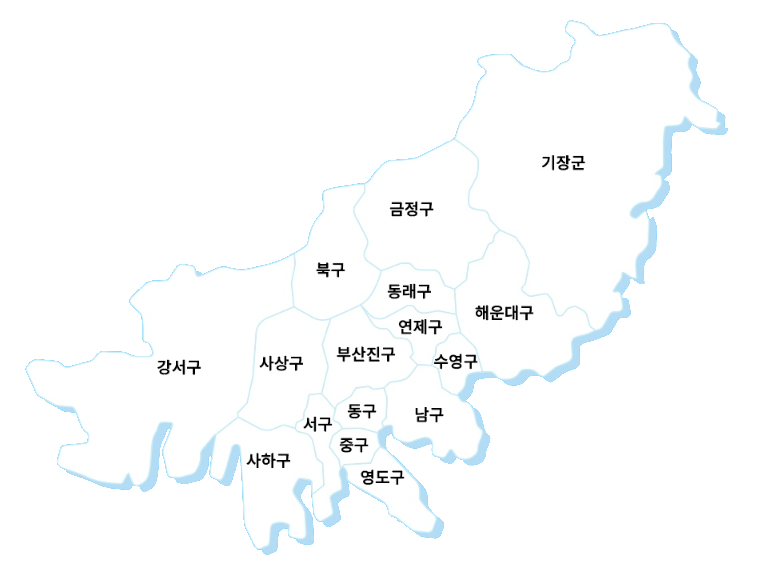
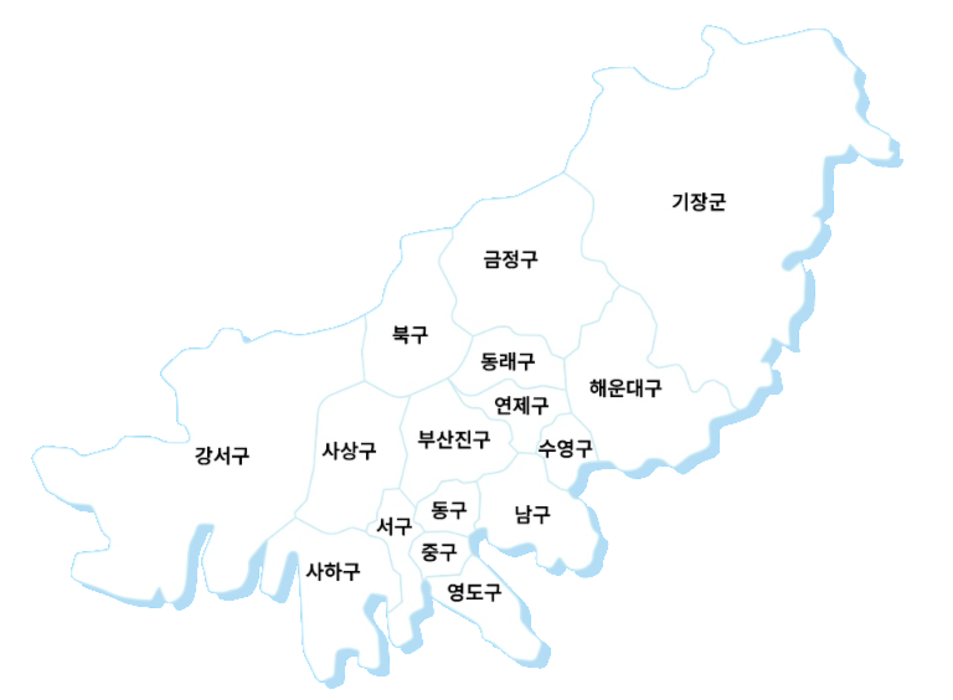
feat:20250411 home화면 및 디테일 화면 수정중

diff --git a/src/home/Home.jsx b/src/home/Home.jsx
@@ -18,6 +18,12 @@ export default function Home() {
 
             {/* body */}
             <div className="home-body">
+                <div className="buttons">
+                <button className="central-btn" onClick={() => PageMove(navigate, "central")}>중부권</button>
+                <button className="eastern-btn" onClick={() => PageMove(navigate, "eastern")}>동부권</button>
+                <button className="southern-btn" onClick={() => PageMove(navigate, "southern")}>남부권</button>
+                <button className="western-btn" onClick={() => PageMove(navigate, "western")}>서부권</button>
+                </div>
                 {/* 지도 이미지 */}
                 <img className="busan-map" src="src\img\busan.png" useMap="#img-busan"/>
                 {/* 지역별 버튼 */}
@@ -27,25 +33,25 @@ export default function Home() {
                             onClick={() => PageMove(navigate, "central")}
                             alt="중부" 
                             title="central-map" 
-                            coords="330,319,362,304,385,271,364,255,369,240,355,209,365,193,366,185,388,162,412,159,455,138,481,159,471,191,468,205,486,214,496,228,482,258,467,275,458,288,457,313,462,333,439,347,433,363,405,370,384,386,352,385,341,402,327,391,323,345" shape="poly"/>
+                            coords="451,229,481,201,566,174,593,195,576,246,585,261,603,265,618,285,592,321,578,323,577,340,564,360,569,414,561,418,541,422,536,441,535,452,516,452,503,469,480,476,459,482,443,479,418,504,401,484,412,460,400,428,411,398,450,380,475,334,456,322,459,303,438,263" shape="poly"/>
 
                         <area 
                             onClick={() => PageMove(navigate, "eastern")}
                             alt="동부" 
                             title="eastern-map" 
-                            coords="453,139,478,158,468,199,486,211,497,228,457,289,458,318,468,336,485,365,507,380,552,376,598,332,628,312,644,276,647,212,665,183,669,128,727,127,692,61,669,24,570,21,476,60" shape="poly"/>
+                            coords="600,460,593,434,572,412,565,359,579,347,581,324,598,321,612,301,619,285,603,264,583,255,588,226,593,198,562,170,585,130,602,91,593,72,632,68,676,89,706,74,713,48,701,34,705,27,725,28,737,42,826,28,850,60,858,71,860,92,858,114,890,134,893,155,855,150,828,157,825,206,821,248,793,347,773,382,742,413,707,449,674,468,631,471"  shape="poly"/>
         
                         <area 
                             onClick={() => PageMove(navigate, "western")}
                             alt="서부" 
                             title="western-map" 
-                            coords="365,183,354,209,369,241,364,256,382,271,362,304,331,318,325,346,328,367,322,391,310,396,295,426,304,476,299,538,254,544,224,479,172,477,143,487,56,462,71,408,29,368,132,299,180,265" shape="poly"/>
+                            coords="446,229,400,236,400,258,380,300,300,333,276,329,244,339,238,330,219,326,205,345,186,349,161,371,171,389,174,419,185,441,127,431,80,450,33,446,33,468,45,490,80,508,99,541,56,559,86,585,154,604,182,598,233,586,270,596,318,674,355,671,382,668,385,611,402,597,366,533,383,490,399,486,401,453,393,429,406,395,446,376,472,341,449,325,455,303,432,264,448,240" shape="poly"/>
 
                         <area 
                             onClick={() => PageMove(navigate, "southern")}
                             alt="남부" 
                             title="southern-map" 
-                            coords="310,396,298,426,311,437,324,463,324,486,317,509,328,515,359,488,405,525,429,529,438,517,422,485,379,435,392,428,406,443,430,437,441,458,453,449,469,461,485,433,470,408,457,397,482,370,460,334,401,386,359,392,337,406" shape="poly"/>    
+                            coords="567,411,592,434,600,459,569,491,587,512,599,539,581,568,543,568,501,546,476,533,476,564,504,580,526,620,543,644,536,666,501,646,481,639,460,616,427,594,415,635,397,645,387,613,402,602,399,573,386,543,369,532,376,519,385,491,401,487,416,510,436,490,454,481,477,482,505,470,519,455,539,456,543,431"  shape="poly"/>    
                         </map>    
             </div>
             {/* footer */}

diff --git a/src/detail/central/Central.jsx b/src/detail/central/Central.jsx
@@ -12,7 +12,8 @@ export default function Central() {
     return (
         <div className="central-cafe">
             <Header />
-            <div className="central-top">
+            
+            
                 <div className="central-part1">
                     <a href="https://naver.me/5Q3mYIGJ" target="_blank" rel="noopener noreferrer">
                         <img src={centralCafeImg1} alt="카페 이내 무목 이미지"  />
@@ -28,7 +29,7 @@ export default function Central() {
                     <a href="https://naver.me/xJiRmdcK" target="_blank" rel="noopener noreferrer">
                         <img src={centralCafeImg2} alt="카페 뱅커 이미지" />
                     </a>
-                    <div>
+                    <div className="part-2-detail">
                         <p>뱅커</p>
                         <p>쿠키와 빵 종류가 다양하고, 넓음</p>
                         <p>#크로플</p>
@@ -36,14 +37,13 @@ export default function Central() {
                     
                 </div>
 
-            </div>
             
-            <div className="central-bottom">
+            
             <div className="central-part3">
                 <a href="https://naver.me/xeAOhY3e" target="_blank" rel="noopener noreferrer">
                     <img src={centralCafeImg3} alt="카페 이디야커피 이미지" />
                 </a>
-                <div>
+                <div className="part-3-detail">
                 <p>이디야커피 부산지오플레이스점</p>
                 <p>사장님이 친절하고, 분위기가 조용함</p>
                 <p>#공부하기 좋은 카페</p>
@@ -54,15 +54,14 @@ export default function Central() {
                 <a href="https://naver.me/Gcts7ekh" target="_blank" rel="noopener noreferrer">
                     <img src={centralCafeImg4} alt="카페 오프커스 이미지" />
                 </a>
-                <div>
+                <div className="part-4-detail">
                 <p>오프커스</p>
                 <p>서면에서 보기 드문 대형 카페</p>
                 <p>#커피가 맛있음 #서면 대형 카페</p>
                 </div>
                 
             </div>
-            </div>
-
+        
             
 
             <Footer />

diff --git a/src/detail/central/Central.css b/src/detail/central/Central.css
@@ -1,4 +1,13 @@
 /* 각 카페 별 이미지 */
+@font-face {
+  font-family: 'Cafe24Ssurround';
+  src: url('https://fastly.jsdelivr.net/gh/projectnoonnu/noonfonts_2105_2@1.0/Cafe24Ssurround.woff') format('woff');
+  font-weight: normal;
+  font-style: normal;
+}
+
+
+
 .central-cafe img{
   width: 330px;
   height: 330px;
@@ -9,31 +18,11 @@
   flex-direction: column;
 }
 
-.central-top{
-  margin-left: 250px;
-  margin-top: 50px;
-  display: flex;
-  gap: 80px;
-}
-
-.central-bottom{
-  margin-left: 250px;
-  margin-top: 30px;
-  display: flex;
-  gap: 120px;
-}
 
 .central-part1{
   display: flex;
   gap: 30px;
 }
-
-.central-part1 :hover{
-}
-
-/* .part-1-detail{
-  display: none;
-} */
 
 .central-part2{
   display: flex;
@@ -48,4 +37,21 @@
 .central-part4{
   display: flex;
   gap: 30px;
+}
+
+.part-1-detail{
+  font-family: 'Cafe24Ssurround';
+  font-size: 24px;
+}
+.part-2-detail{
+  font-family: 'Cafe24Ssurround';
+  font-size: 24px;
+}
+.part-3-detail{
+  font-family: 'Cafe24Ssurround';
+  font-size: 24px;
+}
+.part-4-detail{
+  font-family: 'Cafe24Ssurround';
+  font-size: 24px;
 }

diff --git a/src/detail/eastern/Eastern.css b/src/detail/eastern/Eastern.css
@@ -1,3 +1,11 @@
+@font-face {
+  font-family: 'Cafe24Ssurround';
+  src: url('https://fastly.jsdelivr.net/gh/projectnoonnu/noonfonts_2105_2@1.0/Cafe24Ssurround.woff') format('woff');
+  font-weight: normal;
+  font-style: normal;
+}
+
+
 .eastern-cafe img{
   width: 330px;
   height: 330px;
@@ -7,7 +15,7 @@
   display:flex;
   flex-direction: column;
 }
-.eastern-top{
+/* .eastern-top{
   margin-left: 240px;
   margin-top: 50px;
   display: flex;
@@ -18,21 +26,31 @@
   margin-top: 30px;
   display: flex;
   gap: 200px;
-}
+} */
 
 .eastern-part1{
   display: flex;
   gap: 30px;
+  font-family: 'Cafe24Ssurround';
+  font-size: 24px;
 }
 .eastern-part2{
   display: flex;
   gap: 30px;
+  font-family: 'Cafe24Ssurround';
+  font-size: 24px;
 }
 .eastern-part3{
   display: flex;
   gap: 30px;
+  font-family: 'Cafe24Ssurround';
+  font-size: 24px;
 }
 .eastern-part4{
   display: flex;
   gap: 30px;
+  font-family: 'Cafe24Ssurround';
+  font-size: 24px;
 }
+
+

diff --git a/src/home/Home.css b/src/home/Home.css
@@ -1,7 +1,16 @@
+@font-face {
+  font-family: 'Cafe24Ssurround';
+  src: url('https://fastly.jsdelivr.net/gh/projectnoonnu/noonfonts_2105_2@1.0/Cafe24Ssurround.woff') format('woff');
+  font-weight: normal;
+  font-style: normal;
+}
+
+
+
 html,body{
   width: 100%;
   height: 100%;
-  background-color: #fff;
+  background-color: #fffff0;
 }
 
 .home-container{
@@ -10,8 +19,31 @@ html,body{
 
 .home-body{
   display: flex;
-  flex-direction: row;
+  flex-direction: column;
   justify-content: center;
-  align-items: flex-end;
+  align-items: center;
 }
 
+
+.buttons{
+  display: flex;
+  gap: 200px;
+}
+
+
+.buttons button {
+  size: 40px;
+  transition: all 0.3s ease;
+  background-color: transparent;
+  appearance: none;
+  border: none;
+  font-family: 'Cafe24Ssurround';
+  font-size: 24px;
+}
+.buttons button:hover {
+  box-shadow:
+  -7px -7px 20px 0px #fff9,
+  -4px -4px 5px 0px #fff9,
+  7px 7px 20px 0px #0002,
+  4px 4px 5px 0px #0001;
+}

diff --git a/src/detail/eastern/Eastern.jsx b/src/detail/eastern/Eastern.jsx
@@ -18,7 +18,7 @@ export default function Eastern() {
                 <a href="https://naver.me/GWeDhKuX" target="_blank" rel="noopener noreferrer">
                     <img src={easternCafeImg1} alt="카페 두루미 베이커리 이미지" />
                 </a>
-                <div>
+                <div className="part-1">
                 <p>두루미 베이커리 카페</p>
                 <p>주차시절이 잘 되어있고, 애견 동반이 가능하고 커피가 맛있음</p>
                 <p>#애견동반 가능 #강아지 귀여움</p>

diff --git a/src/header/Header.css b/src/header/Header.css
@@ -1,4 +1,11 @@
 /* 헤더 문구 클릭 시 루트로 가게끔... */
+@font-face {
+    font-family: 'Cafe24Ssurround';
+    src: url('https://fastly.jsdelivr.net/gh/projectnoonnu/noonfonts_2105_2@1.0/Cafe24Ssurround.woff') format('woff');
+    font-weight: normal;
+    font-style: normal;
+}
+
 .header button {
     all: unset; 
     font-size: 2rem; 
@@ -7,4 +14,5 @@
     display: block; 
     text-align: center; 
     margin: 10px 0;
+    font-family: 'Cafe24Ssurround';
 }

diff --git a/README.md b/README.md
@@ -1,1 +1,12 @@
 # caferecommend
+
+## 20250411 진행상황
+
+- 현재 홈 화면에서 지도 및 버튼 클릭시 해당 지역 추천 페이지로 이동 
+- 각 지역별 추천 페이지 사진 위치 조정
+    - 이 부분 수정?
+
+## 아쉬운거
+
+- 추천 페이지 내용 추가하면 좋을거같음
+- 이미지 클릭하면 다음 이미지로 넘어가게끔 수정
